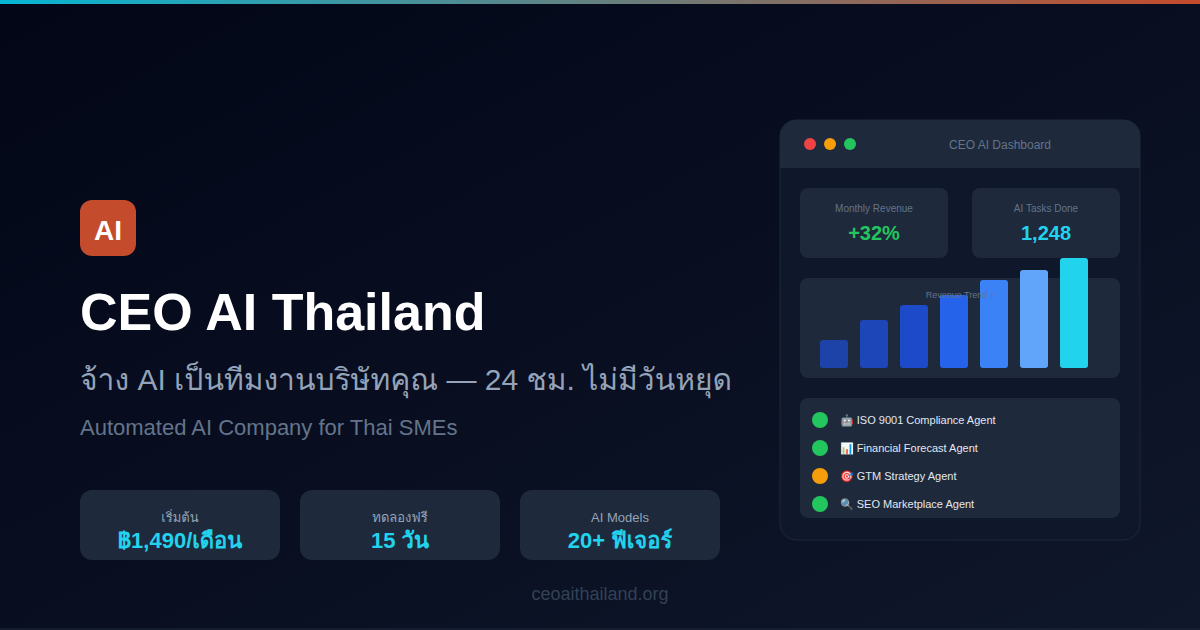
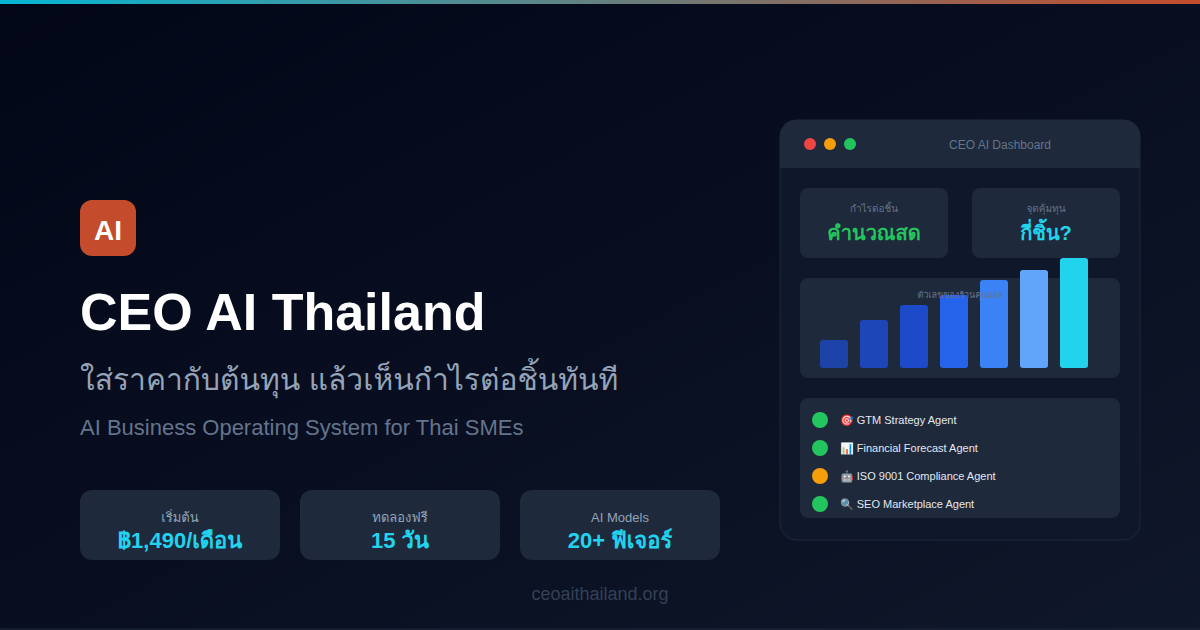
ภาพ OG มีตัวเลขผลลัพธ์ที่แต่งขึ้น + สารเก่าตกค้าง 8 จุด (ledger #71)
เจ้าของส่งภาพผลค้นหา Google มา — หน้าแรกยังขึ้นสารเก่า
🟢 ตรวจแล้ว: index.html แก้ถูกตั้งแต่ 27 ส.ค. และ /about ที่ index ทีหลัง
   ขึ้นสารใหม่ถูกต้อง ⇒ เป็นแคชเก่าของ Google ไม่ใช่ของเราผิด
🔴 แต่ระหว่างตรวจเจอของที่ผิดจริง:

- public/og-image.svg มี "Monthly Revenue +32%" และ "AI Tasks Done 1,248"
  บนการ์ดที่ Google/Facebook หยิบไปแสดง ทั้งที่ลูกค้าจ่ายจริง = 0 ราย
  ⇒ แทนด้วย "กำไรต่อชิ้น / คำนวณสด" · "จุดคุ้มทุน / กี่ชิ้น?" (ของจริงที่ทำได้)
- og-image.svg ยังขึ้น ISO เป็นบรรทัดแรกของรายการ ⇒ สลับให้ธุรกิจนำ
- สร้าง og-image.png ใหม่จาก SVG ด้วย Chromium
- config.tagline (โชว์ใน Sidebar/Auth) · footer 3 หน้า · title + meta หน้าราคา
  · ปุ่ม ShopBooster · authNudge — แก้ครบ

supersededMessage.test.ts สแกน src/ + public/ + index.html (รวม .svg/.txt/.json)
+ กฎเฉพาะภาพ OG: ห้ามตัวเลขผลลัพธ์ · ISO ห้ามเป็นบรรทัดแรก

⚠ สองบทเรียนเรื่องขอบเขตของตัวกัน:
- ใส่ "ทีมผู้บริหาร AI" เป็นคำต้องห้าม ⇒ แดง 12 ไฟล์ที่ถูกต้องอยู่แล้ว
  (CLAUDE.md เขียนเองว่า "ทีม AI = กลไกสนับสนุน") ⇒ ห้ามเฉพาะกรอบ "จ้าง"
- allowlist ทั้งไฟล์ seoData.ts เพื่อให้คอมเมนต์ผ่าน ⇒ เปิดรูให้ title หน้าราคา
  กลับไปผิดได้เงียบ ๆ (M1 ไม่แดง) ⇒ เปลี่ยนเป็นตัดคอมเมนต์ออกก่อนสแกน

ยืนยันแดงจริง 3 การกลายพันธุ์ · npm run ci ผ่านครบ · 2,853 เทสต์ · 245 ไฟล์

Claude-Session: https://claude.ai/code/session_01Fg4Yi7ktSSceukucL6nrCU

diff --git a/src/lib/__tests__/supersededMessage.test.ts b/src/lib/__tests__/supersededMessage.test.ts
@@ -1,0 +1,107 @@
+import { describe, it, expect } from 'vitest';
+import { readFileSync, readdirSync, statSync } from 'node:fs';
+import { join, relative } from 'node:path';
+
+/* ══════════════════════════════════════════════════════════════════════════
+ * 🔴 เจ้าของส่งภาพผลค้นหา Google มา 7 ก.ย. 2569 — หน้าแรกยังขึ้นสารเก่า:
+ *   *"CEO AI Thailand — แพลตฟอร์มสร้างบริษัท AI อัตโนมัติ"*
+ *   *"จ้าง AI เป็นทีมงานบริษัทคุณ — … ทำ ISO …"*
+ *
+ * 🟢 ตรวจแล้ว: `index.html` แก้ถูกตั้งแต่ 27 ส.ค. และหน้า `/about` ที่ Google index แล้ว
+ *    ก็ขึ้นสารใหม่ ⇒ **นั่นคือแคชของ Google เก่า ไม่ใช่ของเราผิด**
+ *
+ * 🔴 แต่ระหว่างตรวจ เจอสารเก่า **ตกค้างจริงอีก 5 จุด** ที่การแก้รอบ 27 ส.ค. พลาดไป
+ *    (`config.tagline` ที่โชว์ใน Sidebar/Auth · footer 3 หน้า · **ภาพ OG**)
+ *    ⇒ ledger #41 บอกไว้แล้วว่า *"จบงานเมื่อ grep ครบทุกไฟล์"* — รอบนั้นผม grep ไม่ครบ
+ * ══════════════════════════════════════════════════════════════════════════ */
+
+const ROOT = process.cwd();
+
+/** สารที่เจ้าของยกเลิกแล้ว — ห้ามโผล่บนพื้นผิวที่คน/เครื่องเห็น
+ *
+ * 🔴 เส้นแบ่งที่ตรวจของจริงแล้วถึงได้ (7 ก.ย. 2569): คำว่า **"ทีมผู้บริหาร AI" ห้ามไม่ได้**
+ *   รอบแรกผมใส่มันลงรายการ ⇒ แดง 12 ไฟล์ ซึ่ง **ส่วนใหญ่ถูกต้องอยู่แล้ว**
+ *   เพราะ CLAUDE.md เขียนไว้ชัดว่า *"ทีม AI" = **กลไกสนับสนุน*** (ผลิตภัณฑ์มีเอเจนต์จริง)
+ *   สิ่งที่ถูกยกเลิกคือ **กรอบ "จ้าง"** — ขายว่าจ้างทีม AI ทั้งบริษัท ไม่ใช่การเอ่ยถึงเอเจนต์
+ *   ⇒ ห้ามเฉพาะ **กรอบการจ้าง** · การอธิบายกลไกยังใช้ได้ (กับดักเดียวกับ ledger #62)
+ *
+ *   ของจริงที่ตัวกันแคบ ๆ นี้จับได้: `seoData` title หน้าราคาเขียนว่า
+ *   *"แพ็กเกจและราคา — **จ้างทีมผู้บริหาร AI** เดือนละเท่าไร"* ⇒ แก้แล้ว */
+const SUPERSEDED: readonly string[] = [
+  'แพลตฟอร์มสร้างบริษัท AI อัตโนมัติ',
+  'จ้าง AI เป็นทีมงาน',
+  'จ้างทีมผู้บริหาร AI',
+  'จ้างทีม AI',
+  'Automated AI Company',
+];
+
+/** ไฟล์ที่ **นิยาม/อธิบาย** สารเก่าได้ (หัวไฟล์ประวัติ + เทสต์ที่เฝ้ามันเอง) */
+const ALLOWED = [
+  'src/lib/brandEntity.ts',
+  'src/config.ts',                                  // คอมเมนต์เตือนห้ามกลับไปใช้
+  'src/lib/__tests__/supersededMessage.test.ts',
+  'src/lib/__tests__/brandEntity.test.ts',
+  'src/lib/__tests__/weeklyReportContract.test.ts',
+  'src/lib/__tests__/constitutionReach.test.ts',
+  // 🔴 `brandBrief` เป็น **บ้านของกฎ** — ข้อความ `'ไม่ใช่ "จ้างทีม AI ทั้งบริษัท"'`
+  //    เป็นตัวกฎเอง ไม่ใช่คำโฆษณา ⇒ ยกเว้นทั้งไฟล์
+  //    ⚠ แต่ `seoData` **ห้ามยกเว้นทั้งไฟล์** — ลองแล้วพบว่าเปิดรูให้ title หน้าราคา
+  //       กลับไปใช้สารเก่าได้เงียบ ๆ (M1 ไม่แดง) ⇒ ใช้วิธีตัดคอมเมนต์ออกก่อนสแกนแทน
+  'src/lib/brandBrief.ts',
+];
+
+/** ตัดคอมเมนต์ออกก่อนสแกน — ไฟล์ที่ **อธิบายว่าห้ามใช้สารนี้** ต้องเขียนคำนั้นได้
+ *  แต่ **ค่าจริงในโค้ด** (title/description/ข้อความบนจอ) ห้ามมี */
+function stripComments(path: string, text: string): string {
+  if (!/\.(ts|tsx)$/.test(path)) return text;
+  return text.replace(/\/\*[\s\S]*?\*\//g, ' ').replace(/^\s*\/\/.*$/gm, ' ');
+}
+
+function walk(d: string, out: string[] = []): string[] {
+  for (const n of readdirSync(d)) {
+    const f = join(d, n);
+    if (statSync(f).isDirectory()) { if (n !== 'node_modules') walk(f, out); }
+    else if (/\.(ts|tsx|html|svg|json|txt)$/.test(n)) out.push(f);
+  }
+  return out;
+}
+
+const SURFACES = [
+  ...walk(join(ROOT, 'src')),
+  ...walk(join(ROOT, 'public')),
+  join(ROOT, 'index.html'),
+].map((f) => relative(ROOT, f).replace(/\\/g, '/'));
+
+describe('สารที่ยกเลิกแล้ว ต้องไม่เหลือบนพื้นผิวที่คนหรือเครื่องเห็น', () => {
+  for (const phrase of SUPERSEDED) {
+    it(`ไม่มี "${phrase}" หลงเหลือ`, () => {
+      const found = SURFACES
+        .filter((p) => !ALLOWED.includes(p))
+        .filter((p) => stripComments(p, readFileSync(join(ROOT, p), 'utf8')).includes(phrase));
+      expect(found, `พบสารเก่าที่: ${found.join(', ')}`).toEqual([]);
+    });
+  }
+});
+
+describe('ภาพ OG — พื้นผิวสาธารณะที่สุด และเป็นที่ที่ลืมง่ายที่สุด', () => {
+  const OG = readFileSync(join(ROOT, 'public/og-image.svg'), 'utf8');
+
+  it('🔴 ห้ามมีตัวเลขผลลัพธ์ทางธุรกิจ — ลูกค้าจ่ายจริงยัง 0 ราย', () => {
+    // เคยมีจริง: "Monthly Revenue +32%" · "AI Tasks Done 1,248" บนการ์ดที่แชร์ทุกที่
+    expect(OG).not.toMatch(/\+\d+%/);
+    expect(OG).not.toMatch(/Monthly Revenue|Tasks Done/);
+    expect(OG).not.toMatch(/>\s*[\d,]{4,}\s*</);
+  });
+
+  it('ธุรกิจนำ · ISO ตาม — ISO ห้ามเป็นบรรทัดแรกของรายการ', () => {
+    const agents = [...OG.matchAll(/>([^<]*Agent)</g)].map((m) => m[1]);
+    expect(agents.length).toBeGreaterThan(1);
+    expect(agents[0], `บรรทัดแรกคือ ${agents[0]}`).not.toMatch(/ISO|PDPA|Compliance/);
+  });
+
+  it('ภาพ PNG ที่เสิร์ฟจริงต้องถูกสร้างใหม่หลังแก้ SVG (ขนาด OG มาตรฐาน)', () => {
+    const png = readFileSync(join(ROOT, 'public/og-image.png'));
+    const w = png.readUInt32BE(16), h = png.readUInt32BE(20);
+    expect([w, h]).toEqual([1200, 630]);
+  });
+});

diff --git a/src/pages/PublicPricing.tsx b/src/pages/PublicPricing.tsx
@@ -47,7 +47,7 @@ export default function PublicPricing() {
     const meta = document.querySelector('meta[name="description"]') ?? (() => {
       const m = document.createElement('meta'); m.setAttribute('name', 'description'); document.head.appendChild(m); return m;
     })();
-    meta.setAttribute('content', `${BRAND.product} — SaaS ให้ SME ไทยจ้างทีม AI บริหารธุรกิจ + ตลาด B2B. แพ็กเกจ Free / Starter ฿790 / Growth ฿1,490 / Scale ฿5,900 ต่อเดือน. ชำระผ่าน PromptPay/โอนบัญชี.`);
+    meta.setAttribute('content', `${BRAND.product} — SaaS ให้ SME ไทยใช้ AI วางกลยุทธ์และเดินธุรกิจ + ตลาด B2B. แพ็กเกจ Free / Starter ฿790 / Growth ฿1,490 / Scale ฿5,900 ต่อเดือน. ชำระผ่าน PromptPay/โอนบัญชี.`);
   }, []);
 
   return (
@@ -63,7 +63,7 @@ export default function PublicPricing() {
         <h2>1. บริการนี้คืออะไร</h2>
         <p>
           <b>{BRAND.product}</b> คือซอฟต์แวร์บริการ (SaaS) แบบสมัครสมาชิกรายเดือน/รายปี สำหรับผู้ประกอบการและ SME ไทย
-          ช่วยให้ธุรกิจ “จ้างทีม AI” มาช่วยวางแผนกลยุทธ์ ทำการตลาด จัดทำเอกสารมาตรฐาน (เช่น ISO 9001) วิเคราะห์ข้อมูล
+          ช่วยให้ธุรกิจใช้ AI วางแผนกลยุทธ์ ทำการตลาด จัดทำเอกสารมาตรฐาน (เช่น ISO 9001) วิเคราะห์ข้อมูล
           และเปิดหน้าร้าน/ซื้อขายแบบ B2B ในตลาดกลาง — ทั้งหมดผ่านเว็บแอปพลิเคชัน ไม่มีการจัดส่งสินค้าทางกายภาพ
         </p>
         <p><b>สิ่งที่ลูกค้าได้รับ (ดิจิทัล):</b></p>

diff --git a/src/components/ShopBooster.tsx b/src/components/ShopBooster.tsx
@@ -4,7 +4,7 @@ import type { Storefront } from '../lib/storefront';
 import { track } from '../lib/analytics';
 
 /** 🚀 Shop Booster — สะพานจากตลาด → บริษัท AI
- *  ร้าน/ธุรกิจสมาชิกที่มาใช้หน้าร้าน/ตลาด กดปุ่มเดียว "จ้างทีม AI ทำงานให้ร้านนี้"
+ *  ร้าน/ธุรกิจสมาชิกที่มาใช้หน้าร้าน/ตลาด กดปุ่มเดียว "ให้ AI ลงมือทำงานให้ร้านนี้"
  *  → สร้างงานจริงใน บริษัท AI (มอบให้ CMO/CEO agent) → พาไปดูทีมทำงาน
  *  = ได้สัมผัสคุณค่าแกนหลักของระบบจากบริบทร้านตัวเอง โดยไม่ต้องเริ่มจากศูนย์ */
 
@@ -89,7 +89,7 @@ export default function ShopBooster({ data, sf, onUpdate, onNavigate }: Props) {
     <div className="booster">
       <div className="booster-hd">
         <div>
-          <div className="booster-title">🚀 จ้างทีม AI ทำงานให้ร้านนี้</div>
+          <div className="booster-title">🚀 ให้ AI ลงมือทำงานให้ร้านนี้</div>
           <div className="booster-sub">
             ทีม AI ของบริษัทคุณ (เช่น {cmo.avatar} {cmo.name} — {cmo.role}) พร้อมรับงานการตลาดของร้านทันที
             — งานจะเข้าคิวใน "บริษัท AI" และรันอัตโนมัติ

diff --git a/src/lib/seoData.ts b/src/lib/seoData.ts
@@ -513,7 +513,7 @@ export const CLIENT_SEO_PAGES: Record<string, { title: string; description: stri
       'อยากเริ่มธุรกิจแต่ไม่รู้จะเริ่มตรงไหน? เล่าไอเดียให้ทีม AI ร่างแผนธุรกิจ เปิดหน้าร้าน และหาลูกค้ากลุ่มแรกให้ — ทดลองฟรี 15 วัน ไม่ต้องใช้บัตรเครดิต',
   },
   '/sale': {
-    title: 'แพ็กเกจและราคา — จ้างทีมผู้บริหาร AI เดือนละเท่าไร | CEO AI Thailand',
+    title: 'แพ็กเกจและราคา — เริ่มต้นเท่าไร ใช้ได้ถึงไหน | CEO AI Thailand',
     description:
       'เทียบราคาทุกแพ็กเกจของ CEO AI Thailand พร้อมสิ่งที่ได้จริงในแต่ละแพ็ก จ่ายรายปีใช้ 12 เดือนจ่าย 10 — ดูก่อนตัดสินใจ ไม่ต้องล็อกอิน',
   },

diff --git a/src/lib/challengerRotation.ts b/src/lib/challengerRotation.ts
@@ -3,7 +3,7 @@
  * วนครบทั้ง 4 headline (ทุก 2 วันครบรอบ) · pure + testable (รับ nowMs เข้ามา ไม่เรียก Date ข้างใน) */
 
 export const CHALLENGER_HEADLINES: string[] = [
-  'เจ้าใหญ่ทำ AI ให้องค์กรใหญ่ — เราทำให้ SME ไทยจ้างทีม AI ทั้งบริษัทได้',
+  'เจ้าใหญ่ทำ AI ให้องค์กรใหญ่ — เราทำให้ SME ไทยใช้ AI ทั้งบริษัทได้',
   'ไม่ต้องรองบล้านเพื่อใช้ AI — SME ไทยมีทีม AI ของตัวเองได้แล้ว ฟรี 15 วัน',
   'AI สำหรับบริษัทใหญ่มีเยอะ — แต่ AI ที่เข้าใจ SME ไทย ทำ ISO/เอกสารได้จริง มีที่เดียว',
   'ที่ปรึกษาจริง 20 ปี + ทีม AI = สิ่งที่แพลตฟอร์มต่างชาติให้คุณไม่ได้',

diff --git a/src/config.ts b/src/config.ts
@@ -2,7 +2,9 @@
 
 export const BRAND = {
   product: 'CEO AI Thailand',
-  tagline: 'แพลตฟอร์มสร้างบริษัท AI อัตโนมัติสำหรับธุรกิจไทย',
+  /* 🔴 ห้ามกลับไปใช้ "แพลตฟอร์มสร้างบริษัท AI อัตโนมัติ" / "จ้าง AI เป็นทีมงาน"
+   *    = สารเก่าที่ยกเลิกแล้ว (brandEntity หัวไฟล์ · เทสต์ supersededMessage เฝ้าอยู่) */
+  tagline: 'ระบบสร้างและเดินธุรกิจด้วย AI สำหรับ SME ไทย',
 };
 
 // อีเมลผู้ดูแลระบบ (เห็น/จัดการทุกเวิร์กสเปซ) — เทียบแบบไม่สนตัวพิมพ์เล็ก-ใหญ่

diff --git a/src/pages/MyStorefront.tsx b/src/pages/MyStorefront.tsx
@@ -519,7 +519,7 @@ export default function MyStorefront({ data, wsId, onUpdate, onNavigate }: Props
       {/* 🧪 พิสูจน์ไอเดียก่อนลงทุนสร้าง — วัดจากลูกค้าที่ทิ้งช่องทางติดต่อจริง */}
       <IdeaValidation slug={sf.slug} publicUrl={publicUrl} />
 
-      {/* 🚀 สะพานสู่ บริษัท AI — จ้างทีม AI ทำการตลาดให้ร้านนี้ */}
+      {/* 🚀 สะพานสู่ บริษัท AI — ให้ AI ลงมือทำการตลาดให้ร้านนี้ */}
       {onUpdate && onNavigate && (
         <ShopBooster data={data} sf={sf} onUpdate={onUpdate} onNavigate={onNavigate} />
       )}

diff --git a/src/pages/PublicStorefront.tsx b/src/pages/PublicStorefront.tsx
@@ -38,7 +38,7 @@ function PublicShell({ children, title, refSlug }: { children: React.ReactNode; 
           ⚡ สร้างด้วย CEO AI Thailand — สร้างหน้าร้าน + บริษัท AI ฟรี
         </a>
         <div style={{ marginTop: 6 }}>
-          แพลตฟอร์มสร้างบริษัท AI อัตโนมัติสำหรับธุรกิจไทย ·{' '}
+          ระบบสร้างและเดินธุรกิจด้วย AI สำหรับ SME ไทย ·{' '}
           โดย <a href="https://www.b-tctraining.com" target="_blank" rel="noreferrer">B. Training Consultant (M.E.A) Co., Ltd.</a>
         </div>
       </footer>

diff --git a/src/lib/authNudge.ts b/src/lib/authNudge.ts
@@ -28,7 +28,7 @@ const NUDGES: Record<NudgeAngle, AuthNudge> = {
   belief: {
     angle: 'belief', symbol: '🌱→👑',
     headline: 'โตได้ แม้เริ่มจากศูนย์',
-    body: 'จ้างทีม AI ทั้งบริษัทมาลงมือทำจริง — จากหมู่บ้านสตาร์ทอัป สู่มหานคร AI',
+    body: 'ให้ AI ลงมือทำจริง ไม่ใช่แค่ตอบคำถาม — จากหมู่บ้านสตาร์ทอัป สู่มหานคร AI',
     proof: REAL_PROOF, chip: REAL_OFFER,
   },
   // Authentic proof (ไม่ใช่ celebrity)

diff --git a/src/pages/StartLanding.tsx b/src/pages/StartLanding.tsx
@@ -484,7 +484,7 @@ export default function StartLanding() {
       </section>
 
       <footer className="start-foot">
-        CEO AI Thailand — แพลตฟอร์มสร้างบริษัท AI อัตโนมัติสำหรับธุรกิจไทย ·{' '}
+        CEO AI Thailand — ระบบสร้างและเดินธุรกิจด้วย AI สำหรับ SME ไทย ·{' '}
         <a className="legal-link" href="/b">สารบัญธุรกิจ</a> ·{' '}
         <a className="legal-link" href="/mit24">MIT 24 Steps</a> ·{' '}
         <a className="legal-link" href="/faq">คำถามที่พบบ่อย</a> ·{' '}

diff --git a/src/pages/SalePage.tsx b/src/pages/SalePage.tsx
@@ -261,7 +261,7 @@ export default function SalePage() {
       </section>
 
       <footer className="start-foot">
-        CEO AI Thailand — แพลตฟอร์มสร้างบริษัท AI อัตโนมัติสำหรับธุรกิจไทย ·{' '}
+        CEO AI Thailand — ระบบสร้างและเดินธุรกิจด้วย AI สำหรับ SME ไทย ·{' '}
         <a href="/start">ทำไมต้องเรา</a> ·{' '}
         <a href="/pricing">ทุกแพ็ก</a> ·{' '}
         <a href="/b">สารบัญธุรกิจ</a> ·{' '}

diff --git a/docs/LESSONS-LEDGER.md b/docs/LESSONS-LEDGER.md
@@ -55,6 +55,7 @@
 | 68 | 3 ก.ย. 69 | 🔴 **ตัวกันที่ผมเพิ่งเขียน ฟ้องแคปชั่นที่ถูกต้องของตัวเอง — เพราะคำถามไทยไม่มีเครื่องหมาย `?`** · `checkCaption` ข้อ "คำถามต้องมาก่อนลิงก์" หาแค่ `?` กับคำว่า "ไหม" ⇒ แคปชั่นที่ลงท้ายว่า *"…ลูกค้า 10 คนถัดไปของคุณจะมาจากไหน"* (คำถามเต็มตัว) ถูกตีว่า **ไม่มีคำถาม** · และตัวจับคำทักทายใช้ `/^สวัสดี\b/` ซึ่ง **ไม่แมตช์ "สวัสดีครับ"** เพราะอักษรไทยไม่ใช่ word character ใน regex ของ JS ⇒ ขอบคำระหว่าง "ี" กับ "ค" ไม่มีอยู่จริง | ทั้งสองข้อคือ **การเอาสมมติฐานภาษาอังกฤษมาใช้กับภาษาไทย** — `?` เป็นตัวเลือกในภาษาไทย และ `\b` ออกแบบมาสำหรับตัวอักษร ASCII · ที่สำคัญกว่า: **ผมจับได้เพราะสร้างของจริงออกมาดู ไม่ใช่เพราะคิดกฎรอบคอบ** ⇒ ถ้าเขียนกฎแล้วไม่รันกับของจริงทันที ตัวกันจะไปแดงใส่คนอื่นวันหลังโดยที่เราไม่รู้ว่ามันผิดเอง | ① `TH_QUESTION_WORDS` 15 คำ + `questionAt()` ที่หาตำแหน่งคำถามแรกจากทั้ง `?` และคำไทย ② เลิกใช้ `\b` กับคำไทย แยก regex อังกฤษ/ไทยออกจากกัน ③ เทสต์บังคับว่า **`openLoop` ของทุกหัวข้อใน `VIDEO_TOPICS` ต้องถูกนับเป็นคำถาม** ⇒ เพิ่มหัวข้อใหม่ที่ไม่เป็นคำถาม = แดงทันที ④ และเทสต์ที่แรงที่สุด: **แคปชั่นที่ระบบสร้างเองทุกชิ้น × ทุกแพลตฟอร์ม ต้องผ่านด่านของตัวเอง โดยไม่มี blocker** ⇒ ตัวกันกับตัวสร้างขัดกันเมื่อไร รู้ทันที ⑤ กฎที่เหลือไว้: **เขียนตัวกันเสร็จ ให้รันกับของจริงที่มีอยู่ก่อนเสมอ** (ต่อจาก ledger #62 ที่เป็นผลบวกปลอม — รอบนี้เป็นผลลบปลอม อีกด้านของเหรียญเดียวกัน) · ยืนยันแดงจริง 5 การกลายพันธุ์ |
 | 69 | 6 ก.ย. 69 | 🟡 **โมเดลการเงินที่ได้รับ ตั้งอยู่บนราคาสองตัวที่ไม่ตรงกับผลิตภัณฑ์จริง** — `1,990` ในโมเดลคือ *Paid Entry Product* ของกรวยหลัก แต่ในระบบคือ **ISO Readiness Pilot** ซึ่ง CLAUDE.md เขียนไว้เองว่า `sideDoor` **ห้ามเป็นเครื่องยนต์เด็ดขาด** · ส่วน `12,000 บาท/ปี` **ไม่มีอยู่ในระบบเลย** (แพ็กจริง 790/1,490/5,900 ต่อ**เดือน**) | ถ้าเดินหน้าเขียนโค้ดตามโมเดลทันที จะได้ **เครื่องยนต์การเงินที่คำนวณถูกทุกบรรทัด บนราคาที่ผลิตภัณฑ์ไม่มี** — และเพราะสูตรถูก มันจะดูน่าเชื่อจนไม่มีใครไปตรวจว่าราคาตั้งต้นมีจริงไหม · เป็นรูปแบบเดียวกับ ledger #61 (คะแนนที่คำนวณถูกจากวัตถุดิบผิด) แต่ย้ายจากตัวชี้วัดมาอยู่ที่ **ราคา** | ① **ไม่ฝังราคาสองตัวนี้ลงโค้ดเลย** — เขียนไว้ในเอกสารว่าต้องให้เจ้าของตัดสินก่อน 2 ข้อ (1,990 จะเปลี่ยนบทบาทจริงไหม · 12,000/ปี คือแพ็กใหม่หรือ growth รายปี) ② สร้าง `TruthLevel` มี `placeholder` = *รอตัวเลขจริงจากภายนอก* ไว้รองรับกรณีนี้โดยเฉพาะ ③ กลไกที่แรงกว่านั้น: `derive()` กดชั้นผลลัพธ์ตามวัตถุดิบที่อ่อนที่สุด ⇒ ตัวเลขที่คำนวณจากราคาสมมติ **แสดงเป็น Actual ไม่ได้ทางเทคนิค** ไม่ใช่แค่ห้ามด้วยข้อตกลง ④ กฎที่เหลือไว้: **ก่อนเขียนโมเดลการเงิน ให้ `grep` ราคาทุกตัวในโมเดลว่ามีอยู่จริงในโค้ดไหม** — สูตรที่ถูกบนราคาที่ไม่มี คือความมั่นใจที่ผิดชนิดที่ตรวจยากที่สุด |
 | 70 | 7 ก.ย. 69 | 🔴 **ผมทำผิดข้อเดิมซ้ำ — และคราวนี้ผมเป็นคนเขียนกฎกันมันเองเมื่อ 4 วันก่อน** · ledger #63 (3 ก.ย.) จบด้วยกฎ *"เพิ่มกฎใหม่ทุกครั้ง ต้อง `grep` หาผู้เรียกก่อน commit"* · วันที่ 6 ก.ย. ผมส่ง `financialTruth.ts` พร้อมเทสต์ 21 ตัว แล้ว `grep` ได้ **ผู้เรียก 0 ทุกฟังก์ชัน** (`econMetrics` · `cacTrap` · `investmentGateStatus` · `verifiedFirstOutcomeRate` · `showAsActual`) | **กฎที่อยู่แต่ในบันทึก คือกฎที่ต้องพึ่งความจำ** — และความจำแพ้ทุกครั้งที่งานยาว · #63 ไม่ได้ทิ้งกลไกไว้เลย ทิ้งไว้แต่ประโยคเตือน ⇒ รอบถัดไปจึงพลาดซ้ำแบบเดียวกันเป๊ะ · บทเรียนที่แท้จริงไม่ใช่ "อย่าลืม grep" แต่คือ **บทเรียนที่ไม่กลายเป็นเทสต์ ไม่นับว่าปิดแล้ว** | ① ต่อ `financialTruth` เข้า `FinancialTruthPanel` บนหน้าจริง ② `enforcedGates.test.ts` — รายการ **ด่านที่เอกสารอ้างว่ากั้นได้จริง** ต้องมีผู้เรียกจริงทุกตัว + `KNOWN_UNWIRED` ที่ **ลดได้อย่างเดียว** ③ 🔴 **เจอของที่ใหญ่กว่าเรื่องของผมระหว่างทาง**: `founderGate()` และ `dmaicGate()` — ตัวตัดสินของรัฐธรรมนูญและ DMAIC — **ไม่มีใครเรียกเลย** มีแต่ `founderMindsetBlock()`/`dmaicBlock()` (ข้อความ) ที่ถูกแปะเข้า prompt ⇒ **กฎเดินทางไปถึง AI ในรูปคำอธิบาย แต่โค้ดที่กั้นไม่เคยทำงาน** — บันทึกเป็นหนี้ที่ประกาศแล้ว ไม่ใช่ปล่อยเงียบ ④ ⚠ **ตัวกันเหมารวมทำไม่ได้**: สแกนทั้งรีโปได้ **89 จาก 225 ไฟล์** มี export ที่ไม่ถูกเรียก ซึ่งส่วนใหญ่ถูกต้องแล้ว (กับดักเดียวกับ #62) ⑤ ⚠ และตัววิเคราะห์กราฟ import ที่ผมลองเขียนเพื่ออุดช่อง **พังทันที** เพราะ `App.tsx` ใช้ `lazy(() => import(...))` 40 จุด ⇒ ถอยกลับไปใช้เทสต์ประจำคอมโพเนนต์ที่พิสูจน์แล้วว่าแดงจริง แทนการสร้างเครื่องมือใหม่ที่เชื่อไม่ได้ |
+| 71 | 7 ก.ย. 69 | 🔴 **ภาพ OG ที่แชร์ทุกที่ มีตัวเลขผลลัพธ์ที่แต่งขึ้น** — `Monthly Revenue +32%` และ `AI Tasks Done 1,248` บนการ์ดที่ Google/Facebook หยิบไปแสดง ทั้งที่ **ลูกค้าจ่ายจริง = 0 ราย** · และสารเก่าที่ยกเลิกไปแล้วยังตกค้างอีก 8 จุด (`config.tagline` ที่โชว์ใน Sidebar/Auth · footer 3 หน้า · title หน้าราคา · meta description หน้าราคา · ปุ่มใน ShopBooster · authNudge) | เจ้าของส่งภาพผลค้นหา Google มา ผมตรวจแล้วพบว่า **หน้าแรกเป็นแคชเก่าของ Google ไม่ใช่ของเราผิด** (`/about` ที่ index ทีหลังขึ้นสารใหม่ถูกต้อง) — แต่**ระหว่างตรวจถึงเจอของที่ผิดจริง** ⇒ ledger #41 เขียนไว้แล้วว่า *"จบงานเมื่อ grep ครบทุกไฟล์"* · รอบ 27 ส.ค. ผม grep แต่ **ข้อความ** ไม่ได้ grep **ภาพ** และไม่ได้ตามไปที่ `config.tagline` ซึ่งเป็นต้นทางที่หลายที่ดึงไปใช้ | ① แก้ครบทั้ง 9 จุด + สร้าง `og-image.png` ใหม่จาก SVG ด้วย Chromium ② `supersededMessage.test.ts` สแกน `src/` + `public/` + `index.html` (รวม `.svg`/`.txt`/`.json`) ③ กฎเฉพาะภาพ OG: **ห้ามมีตัวเลขผลลัพธ์ทางธุรกิจ** (`+\d+%` · เลข 4 หลักขึ้นไป) และ **ISO ห้ามเป็นบรรทัดแรก** ④ ⚠ **ขอบเขตคำต้องห้ามต้องแคบ**: รอบแรกใส่ `"ทีมผู้บริหาร AI"` ⇒ แดง 12 ไฟล์ที่**ถูกต้องอยู่แล้ว** (CLAUDE.md เขียนเองว่า *ทีม AI = กลไกสนับสนุน*) ⇒ ห้ามเฉพาะ **กรอบ "จ้าง"** ไม่ใช่การเอ่ยถึงเอเจนต์ (กับดักเดียวกับ #62) ⑤ ⚠ และ **ห้าม allowlist ทั้งไฟล์**: ตอนแรกยกเว้น `seoData.ts` ทั้งไฟล์เพื่อให้คอมเมนต์ที่อ้างกฎผ่านได้ ⇒ **เปิดรูให้ title หน้าราคากลับไปผิดได้เงียบ ๆ** (M1 ไม่แดง) ⇒ เปลี่ยนเป็น **ตัดคอมเมนต์ออกก่อนสแกน** — ไฟล์ที่อธิบายกฎเขียนคำนั้นได้ แต่ค่าจริงในโค้ดห้ามมี · ยืนยันแดงจริง 3 การกลายพันธุ์ |
 | 39 | 22 ส.ค. 69 | 🔴 **บอกเจ้าของซ้ำ ๆ ทั้งวันว่า "ยังไม่ได้ยืนยัน Google Search Console" — ไม่จริง** เจ้าของส่งภาพหน้าจอ GSC มาให้ดู: ยืนยันแล้ว เก็บข้อมูลมาตั้งแต่ ~20 ก.ค. 2569 · **จัดทำดัชนีแล้ว 12 หน้า** · ผมยกข้อนี้เป็น "งานอันดับ 1 ที่ค้างอยู่" ในเอกสารหลายฉบับ (BRAND-BRIEF-FORM · ROOT-CAUSE · stageFit · marketing-instruction) ⇒ **ทำให้เจ้าของเกือบไปทำงานที่ทำเสร็จไปแล้ว** | ผมอ่านจาก `CLAUDE.md` ที่เขียนว่า *"🔴 งานคนที่ยังค้าง: ยืนยัน Google Search Console"* แล้วเชื่อโดยไม่ตรวจ — **เอกสารภายในเป็นสิ่งที่เขียนไว้ ณ วันหนึ่ง ไม่ใช่สถานะปัจจุบัน** และผมไม่มีทางตรวจ GSC เองได้ (ต้องล็อกอินบัญชีเจ้าของ) ⇒ **สิ่งที่ตรวจเองไม่ได้ ต้องถามก่อน ห้ามยกเป็นข้อค้าง** · ซ้ำรูปแบบเดิม: ตอบจากสิ่งที่จำ/อ่านผ่าน ๆ แทนที่จะบอกว่า "ตรวจไม่ได้ ขอข้อมูล" | ① เปลี่ยนวิธีเขียนสถานะงานที่ตรวจเองไม่ได้: ต้องติดป้าย **🔴 ตรวจไม่ได้ — ต้องถามเจ้าของ** ไม่ใช่ **🔴 ยังไม่ได้ทำ** (สองอย่างนี้ต่างกันสิ้นเชิงและอันหลังทำให้คนไปทำงานซ้ำ) ② แก้ `CLAUDE.md` + เอกสารทุกฉบับที่อ้างว่า Search Console ยังไม่ได้ยืนยัน ③ บทเรียนที่กว้างกว่า: **ก่อนบอกว่าอะไร "ยังไม่ได้ทำ" ให้ถามว่าเราตรวจได้จริงไหม** — ถ้าตรวจไม่ได้ ให้ถาม |
 | 38 | 22 ส.ค. 69 | 🔴 **วิเคราะห์กลยุทธ์ทั้งวันโดยยึด "เรามีลูกค้า 0 ราย" เป็นจุดตั้งต้น** — เจ้าของค้านว่า *"ทำไมคิดบนสมมุติฐานเราไม่มีลูกค้า ทำไมไม่คิดบน Demand"* · ผลคือได้แผนที่เป็น **การตั้งรับล้วน ๆ** ("ห้ามทำ X จนกว่าจะมี Y") และสรุปสาเหตุรากผิดว่า *"เราเลือกตลาดที่ต้องสร้าง demand"* ⇒ **ผิด** — ตลาดที่เราเลือก (ISO/PDPA compliance) **demand พิสูจน์แล้ว**: 50,000–100,000 ราย · ฿750–1,500 ล้าน/ปี · และเหตุผลที่ WTP สูงคือ **"ทุกวันนี้เขาจ่ายที่ปรึกษาหลักหมื่น–แสน/โปรเจกต์อยู่แล้ว"** · หลักฐานที่แข็งที่สุดคือ **B.Training เก็บเงินจากงานนี้มา 20+ ปี** — ผมกลับเรียกมันว่า "สินทรัพย์ที่ยังไม่ได้ใช้" แทนที่จะเรียกว่า **หลักฐาน demand** | ① สับสนระหว่าง **ข้อเท็จจริงเกี่ยวกับตัวเรา** (จับลูกค้าได้กี่ราย) กับ **ข้อเท็จจริงเกี่ยวกับตลาด** (เงินเคลื่อนอยู่ไหม) — เงินในตลาดไม่ได้ขึ้นกับว่าเราจับได้หรือยัง ② และซ้ำรอยเดิม: **เอกสารขนาดตลาดพร้อมตัวเลขมีอยู่ใน repo แล้ว 4 ไฟล์ (`MARKET-SIZING-2026.md` ฯลฯ) ผมไม่เคยเปิดเลย** แล้วเขียนว่า "ไม่มีตัวเลข SME ที่ตรวจได้" — รูปแบบเดียวกับ ledger #31 เป๊ะ (คำตอบอยู่ในเครื่อง แต่ตอบจากความจำ) ③ ผลข้างเคียงที่อันตราย: ผมเขียนกฎเหมารวมว่า **"ห้ามขึ้นต้นด้วยคำว่า ISO"** ไปใช้กับ **ทุกคน** ทั้งที่เป็นกฎของกลุ่มคนเพิ่งเริ่ม ⇒ **ปิดประตูใส่กลุ่มที่กำลังพิมพ์คำว่า ISO ค้นหาอยู่** ซึ่งเป็นกลุ่มที่มีเงินและมีกำหนดเวลา | ① กฎแม่ใน skill `marketing-instruction`: **"เรามีเท่าไร" จำกัดสิ่งที่พูดได้ · "ตลาดมีเท่าไร" กำหนดสิ่งที่ทำ** — ห้ามเอาข้อแรกมาตัดสินใจแทนข้อหลัง ② `marketingInstruction.test.ts` เพิ่ม 6 เทสต์บังคับ: ต้องสั่งให้เปิด `MARKET-SIZING-2026.md` ก่อนวางแผน · ต้องมีตารางแยก "กลุ่มที่ demand มีอยู่แล้ว" ออกจาก "กลุ่มที่ต้องสร้าง demand" · ต้องอ้างหลักฐาน WTP จริง ③ ลำดับงานเขียนใหม่ให้เริ่มที่ **"ไปหากลุ่มที่มีทริกเกอร์"** (มี audit/cert/PDPA รออยู่) ไม่ใช่เริ่มที่คอนเทนต์ทั่วไป ④ แก้กฎ "พูดอะไรขึ้นหน้า" ให้แยกตามกลุ่ม + เทสต์ล็อกว่า **ห้ามเหมารวมว่าคำมาตรฐานเป็นคำต้องห้ามเสมอไป** ⑤ 🟡 หนี้ที่บันทึกไว้: `START_HEROES` ยังไม่มี seg สำหรับคนที่มี audit รออยู่ ⇒ กลุ่ม WTP สูงสุดยังไม่มีประตูเข้า |
 | 37 | 22 ส.ค. 69 | 🔴 **เกือบทำแอปพังตอนล็อกอินบน production 46 นาที** (11:47–12:33) — `useEffect` บังคับธีมใน `App.tsx` ถูกวางไว้ **ใต้ early return** ⇒ ตอนยังไม่ล็อกอิน React เรียก hook N ตัว · พอล็อกอินสำเร็จ เรนเดอร์เดินผ่าน return ไปถึง effect = hook N+1 ตัว ⇒ React โยน "Rendered more hooks than during the previous render" **แอปขาวทั้งหน้า ณ วินาทีที่ล็อกอินสำเร็จ** · 🟢 ตรวจแล้วว่า**ไม่มีใครเจอจริง**: `landing_funnel` มีผู้เข้าชมในช่วงนั้น **0 คน** และ `client_errors` ล่าสุดคือ 01:30 (ก่อนงานธีม) ⇒ **รอดเพราะไม่มีคนเข้า ไม่ใช่เพราะเราตรวจเจอ** | ① `rules-of-hooks` เป็นกฎของ **eslint** ไม่ใช่ tsc — `npm run typecheck` และ `vitest` ผ่านสบาย โค้ดคอมไพล์ได้ปกติ ⇒ เครื่องมือที่ผมรันอยู่ **ไม่มีตัวไหนมองเห็นบั๊กชนิดนี้เลย** ② และ `cloudflare-deploy.yml` รันแค่ `npm run build` **ไม่มีขั้น lint** ⇒ deploy เขียวตลอด ขึ้น production ได้ทันทีทั้งที่ CI แดง — **CI ที่แดงไม่ได้กั้นอะไรเลย** นี่คือเหตุผลที่แดงติดกัน 54 รอบโดยไม่มีอาการอะไรให้สังเกต (ledger #36) ③ ต้นตอร่วม: **เอาผลของเครื่องมือหนึ่งมาตอบคำถามที่เครื่องมืออีกตัวเป็นคนตอบ** | ① `npm run ci` + `ciGate.test.ts` (ledger #36) — บังคับให้ lint อยู่ในด่านก่อน commit เสมอ ② คอมเมนต์เตือนติดตัว effect นั้นใน `App.tsx`: *"ต้องอยู่เหนือ early return ทุกตัว"* พร้อมเหตุผลว่าทำไม (ไม่ใช่แค่บอกว่าห้าม) ③ 🟡 **หนี้ที่ยังไม่ปิด**: `cloudflare-deploy.yml` ยังไม่มีขั้น lint ⇒ โค้ดที่ lint ไม่ผ่านยังขึ้น production ได้อยู่ — ต้องตัดสินใจว่าจะให้ deploy กั้นด้วย lint ไหม (เป็นการตัดสินใจของเจ้าของ เพราะมันแลกกับความเร็วในการแก้ของเสีย) |
@@ -116,7 +117,7 @@
 | `concernsTrustworthy` / `MIN_CONCERN_SAMPLE` | อ่านอันดับความกังวลจากคนไม่กี่คน |
 | `landingClaims.test.ts` (ใหม่ 16 ส.ค.) | คำสัญญาที่ระบบทำไม่ได้หลุดขึ้นหน้าสาธารณะ — สแกนทั้ง lib และไฟล์ .tsx · **ทดสอบแล้วว่าแดงจริงเมื่อใส่คำต้องห้ามเข้าไป** |
 
-**จำนวนเทสต์ทั้งระบบ:** 2,845 (ณ 7 ก.ย. 2569 · 244 ไฟล์)
+**จำนวนเทสต์ทั้งระบบ:** 2,853 (ณ 7 ก.ย. 2569 · 245 ไฟล์)
 
 > ✅ **ปิดหนี้ไปแล้ว 1 ข้อในวันเดียวกับที่บันทึก** — ข้อ 8 (คำว่า "จ่ายเฉพาะเมื่อปิดดีล")
 > ตอนนี้มี `landingClaims.test.ts` เฝ้าอยู่ · และได้ทดสอบว่ามันแดงจริงเมื่อใส่คำนั้นกลับเข้าไป
